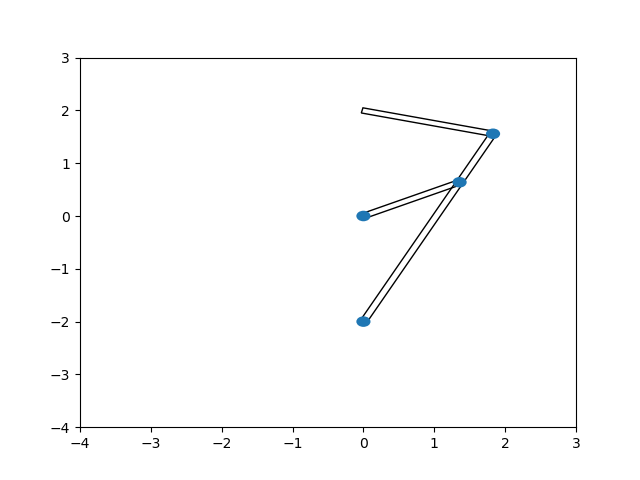
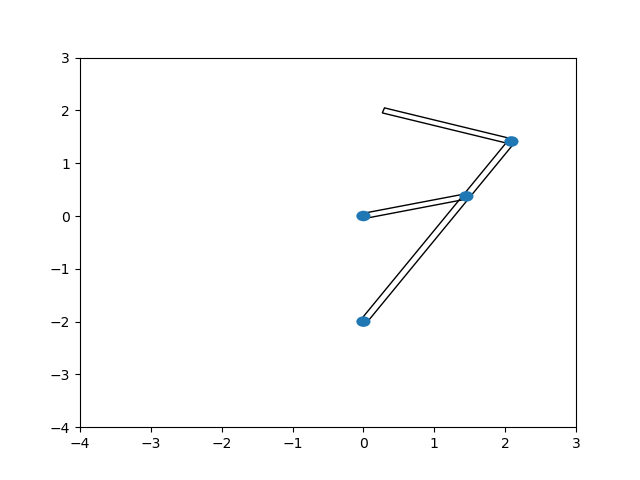
kinematic 0.3 Mon finish

Changed region(s): [[0.5625, 0.2188, 0.8125, 0.6562]]

diff --git a/kinematic/kinematics.py b/kinematic/kinematics.py
@@ -102,6 +102,7 @@ class kinematic_model:
             phij = q[j * 3 + 2]
         if kind == 'aphid':
             c = str(row['c']).replace("pi", "np.pi").replace('^', '**')
+            # print('kind 105:', c, phii - eval(c), phii, q)
             return phii - eval(c)
         elif kind == 'ax':
             c = float(c)
@@ -130,6 +131,7 @@ class kinematic_model:
         Phi = np.array([])
         for index, row in constraints.iterrows():
             i, j = row['i'], row['j']
+            # print('134:', self.cal_Phi_row(q, t, row))
             Phi = np.hstack([Phi, self.cal_Phi_row(q, t, row)])
         return np.matrix(Phi).T # 返回一个列向量
     def cal_fq_row(self, q, t, row):
@@ -222,7 +224,8 @@ class kinematic_model:
             dyj = dq[j * 3 + 1]
             drj = np.matrix([[dxj, dyj]]).T
         if kind == 'aphid':
-            c = str(row['c']).replace("pi", "np.pi").replace('^', '**')
+            c = str(row["c''"]).replace("pi", "np.pi").replace('^', '**')
+            # print(eval(c))
             return eval(c)
         elif kind == 'ax':
             return (As(phii, si) * dphii ** 2)[0, 0]
@@ -232,28 +235,48 @@ class kinematic_model:
             return np.array(As(phij, sj) * dphij ** 2 - As(phii, si) * dphii ** 2).flatten()
         elif kind == 't':
             print(rj)
-            t1 = dphii ** 2 * Bs(phii, vi).T * (rj - ri) + 2 * dphii * As(phii, vi).T * (drj - dri)
+            t1 = (dphii ** 2 * Bs(phii, vi).T * (rj - ri) + 2 * dphii * As(phii, vi).T * (drj - dri))[0, 0]
             return np.array([t1, 0])
         else:
             return 0
     def cal_gamma(self, q, dq, t):
-        gamma = np.empty([])
+        gamma = np.array([])
+        # print('origin', gamma)
         for index, row in self.constraints.iterrows():
+            # print('1', gamma)
             gamma = np.hstack([gamma, self.cal_gamma_row(q, dq, t, row)])
-        return np.matrix(gamma).T 
-    def directly_solve(self):
-        t0 = 0
-        te = 2
-        num = 50
-        ts = np.linspace(t0, te, num + 1)
+            # print(gamma)
+        return np.matrix(gamma).T # 返回列向量
+    def cal_v_row(self, q, t, row):
+        kind = row['kind']
+        if kind == 'aphid':
+            c = str(row["c'"]).replace("pi", "np.pi").replace('^', '**')
+            # print(eval(c))
+            return eval(c)
+        elif kind == 'r':
+            return [0, 0]
+        elif kind == 't':
+            return [0, 0]
+        else:
+            return 0
+    def cal_v(self, q, t):
+        v = np.array([])
+        for index, row in self.constraints.iterrows():
+            v = np.hstack([v, self.cal_v_row(q, t, row)])
+        return np.matrix(v).T
+    # Return [phi, phi, a]
+    def directly_solve(self, ts):
         dt = ts[1] - ts[0]
         q = [float(x) for x in self.initial_condition]
         n = len(q)
         constraints = self.constraints
         if n != self.n:
             print('n is wrong')
-        Z = np.zeros([num + 1, n])
+        Z = np.zeros([ts.shape[0], n * 3])
         for it, t in enumerate(ts):
+            print(it, q)
+            Phi = self.cal_Phi(q, t, constraints)
+            Phi_q = self.cal_fq(q, t, constraints)
             i = 1
             while npl.norm(self.cal_Phi(q, t, constraints)) > 1e-6:
                 Phi = self.cal_Phi(q, t, constraints)
@@ -262,20 +285,34 @@ class kinematic_model:
                     print('Improper initial value')
                     print(Phi_q) 
                     print(npl.det(Phi_q)) 
-                dq = - npl.inv(Phi_q) * Phi 
-                q = np.array(q).reshape(n, 1)
-                # print(q, dq)
-                # print(np.array(dq).flatten())
-                gamma = self.cal_gamma(q, np.array(dq).flatten(), t)
-                q += dq
-                q = q.flatten().tolist()
+                q = np.matrix(np.array(q).reshape([n, 1]))
+                q -= npl.inv(Phi_q) * Phi 
+                q = np.array(q).reshape(n, 1).flatten().tolist()
+                # print('291:', q)
                 i += 1 
-                # print('times: ', t, i, self.cal_Phi(q, t, constraints), Phi_q, dq, q)
                 if i == 100:
                     print('Improper initial value, i >= maxi')
                     print(t)
                     return Z
-            Z[it, :] = np.array(q)
+
+            dq = - npl.inv(Phi_q) * self.cal_v(q, t) 
+            q = np.array(q).reshape(n, 1)
+            # print(q, dq)
+            # print(np.array(dq).flatten())
+            gamma = self.cal_gamma(q, np.array(dq).flatten(), t)
+            # print(gamma)
+            ddq = npl.inv(Phi_q) * gamma
+            q = np.matrix(q)
+            # print('q: ', q)
+            # print('dq * dt: ', dq * dt)
+            # print('0.5 * dt ** 2 * ddq :', 0.5 * dt ** 2 * ddq )
+            q += dq * dt + 0.5 * dt ** 2 * ddq 
+            q = np.array(q).reshape(n, 1).flatten().tolist()
+            # print('q:', q)
+            dq = np.array(dq).flatten()
+            ddq = np.array(ddq).flatten()
+
+            Z[it, :] = np.hstack([np.array(q), dq, ddq])
         return Z
 
 n = 0

diff --git a/fluid mechanics/hw1.py b/fluid mechanics/hw1.py
@@ -1,0 +1,118 @@
+import numpy as np
+import numpy.linalg as npl
+import matplotlib.pyplot as plt
+
+gamma = 1.4 
+deltaX = 0.1
+start, end = 0, 3
+xs = np.linspace(start, end, (int)((end - start)//deltaX) + 2)
+print(xs)
+
+print(xs[0])
+print(xs[-1])
+print(xs[-2])
+print(xs[-2])
+
+rhos = [1 - 0.3146 * x for x in xs]
+Ts = [1 - 0.2314 * x for x in xs] # 温度
+Vs = [(0.1 + 1.09 * x) * np.sqrt(Ts[i]) for i, x in enumerate(xs)]
+print(rhos)
+
+print([1, 3, 41])
+# [1, 1, 1] + [0, 1, 2] = [1, 2, 3]
+print([1, 1, 1] + [0, 1, 2])
+n1 = np.array([1, 1, 1])
+n2 = np.array([0, 1, 2])
+print(np.array([1, 1, 1]) + np.array([0, 1, 2]))
+
+sz = len(xs)
+As = [1 + 2.2 * (x - 1.5) **2 for x in xs]
+print(As)
+
+ts = [0] # 时间
+rhos = [1 - 0.3146 * x for x in xs]
+Ts = [1 - 0.2314 * x for x in xs]
+Vs = [(0.1 + 1.09 * x) * np.sqrt(Ts[i]) for i, x in enumerate(xs)]
+rho_mid = [0.5]
+V_mid = [Vs[16]]
+T_mid = [Ts[16]]
+rho_t_mid = [0]
+rho_t_mid2 = [0]
+
+for it in range(1000):
+    rho_t = np.array([-rhos[i] * (Vs[i + 1] - Vs[i]) / deltaX - Vs[i] * (rhos[i + 1] - rhos[i]) / deltaX - rhos[i] * Vs[i] * (np.log(As[i + 1]) - np.log(As[i])) / deltaX for i in range(sz - 1)])
+    V_t = np.array([- Vs[i] * (Vs[i + 1] - Vs[i]) / deltaX - 1 / gamma * ((Ts[i + 1] - Ts[i]) / deltaX + Ts[i] / rhos[i] * (rhos[i + 1] - rhos[i]) / deltaX) for i in range(sz - 1)])
+    T_t = np.array([- Vs[i] * (Ts[i + 1] - Ts[i]) / deltaX - (gamma - 1) * Ts[i] * ((Vs[i + 1] - Vs[i]) / deltaX + Vs[i] * (np.log(As[i + 1]) - np.log(As[i])) / deltaX) for i in range(sz - 1)])
+    deltats = [deltaX / (Vs[i] + np.sqrt(Ts[i])) for i in range(sz - 1)]
+    deltat = 0.9 * np.min(deltats)
+    # print(deltats)
+    # print(Ts)
+    # print(Vs)
+    # print(rhos)
+    # print("-------------------------------")
+    ts += [ts[-1] + deltat] # ts = ts + [ts[-1] + deltat]
+    rho_t2 = np.append(rho_t, rho_t[-1])
+    V_t2 = np.append(V_t, V_t[-1])
+    T_t2 = np.append(T_t, T_t[-1])
+
+    rhoY = rhos 
+    VY = Vs 
+    TY = Ts 
+    rhos = rhos + rho_t2 * deltat 
+    Vs = Vs + V_t2 * deltat 
+    Ts = Ts + T_t2 * deltat 
+
+    rho_t = np.array([-rhos[i] * (Vs[i] - Vs[i - 1]) / deltaX - Vs[i] * (rhos[i] - rhos[i - 1]) / deltaX - rhos[i] * Vs[i] * (np.log(As[i]) - np.log(As[i - 1])) / deltaX for i in range(1, sz)])
+    V_t = np.array([- Vs[i] * (Vs[i] - Vs[i - 1]) / deltaX - 1 / gamma * ((Ts[i] - Ts[i - 1]) / deltaX + Ts[i] / rhos[i] * (rhos[i] - rhos[i - 1]) / deltaX) for i in range(1, sz)])
+    T_t = np.array([- Vs[i] * (Ts[i] - Ts[i - 1]) / deltaX - (gamma - 1) * Ts[i] * ((Vs[i] - Vs[i - 1]) / deltaX + Vs[i] * (np.log(As[i]) - np.log(As[i - 1])) / deltaX) for i in range(1, sz)])
+
+    rho_t = np.hstack([rho_t[0], rho_t])# [1, 2, 0.7, ...] -> [1, 1, 2, 0.7, ...]
+    V_t = np.hstack([V_t[0], V_t])
+    T_t = np.hstack([T_t[0], T_t])
+
+    # 计算时间偏导数的平均值，计算矫正值
+    rhos = rhoY + 0.5 * (rho_t + rho_t2) * deltat 
+    Vs = VY + 0.5 * (V_t + V_t2) * deltat 
+    Ts = TY + 0.5 * (T_t + T_t2) * deltat 
+
+    # 边界条件
+    rhos[0] = 1 
+    Ts[0] = 1
+    Vs[0] = 2 * Vs[1] - Vs[2] 
+    rhos[-1] = 2 * rhos[-2] - rhos[-3]
+    Ts[-1] = 2 * Ts[-2] - Ts[-3] 
+    Vs[-1] = 2 * Vs[-2] - Vs[-3]
+
+    # 记录喉道数据
+    rho_mid += [rhos[16]]
+    V_mid += [Vs[16]]
+    T_mid += [Ts[16]]
+    rho_t_mid += [rho_t[16]]
+    rho_t_mid2 += [rho_t2[16]]
+
+print(ts)
+print(rhos)
+
+ 
+
+plt.plot(ts, rho_mid)
+plt.plot(ts, V_mid)
+plt.plot(ts, T_mid)
+plt.legend(['rho', 'V', 'T'])
+
+plt.plot(ts, rho_t_mid)
+plt.plot(ts, rho_t_mid2)
+plt.plot(ts, np.array(rho_t_mid2) - np.array(rho_t_mid))
+
+plt.plot(ts[100:110], rho_t_mid[100:110])
+plt.plot(ts[100:110], rho_t_mid2[100:110])
+plt.plot(ts[100:110], (np.array(rho_t_mid2) - np.array(rho_t_mid))[100:110])
+
+plt.plot(xs, rhos)
+cs = [np.sqrt(T) for T in Ts]
+rhos_ = [(1 + 0.2 * (Vs[i] / cs[i]) ** 2) ** ( -1 / 0.4) for i in range(len(rhos))]
+plt.plot(xs, rhos_)
+
+plt.plot(xs, Vs)
+
+plt.plot(xs, Ts)

diff --git a/kinematic/test.py b/kinematic/test.py
@@ -1,19 +1,50 @@
 if __name__ == '__main__':
     import kinematics
     import math
+    import numpy as np 
+    import matplotlib.pyplot as plt 
 
+    t0 = 0
+    te = 2
+    num = 50
+    ts = np.linspace(t0, te, num + 1)
     k1 = kinematics.kinematic_model()
     k1.read_data_from_csv("kinematic/hw1_constraints.csv")
     k1.read_initial_from_csv("kinematic/hw1_IC.csv")
-    Z2 = k1.directly_solve()
-    print(Z2)
+    Z1 = k1.directly_solve(ts)
+    print(Z1)
+
+    plt.plot(ts, Z1[:, 0])
+    plt.savefig('x1.png')
+    plt.cla()
+    plt.plot(ts, Z1[:, 3])
+    plt.savefig('v1.png')
+    plt.cla()
+    plt.plot(ts, Z1[:, 6])
+    plt.savefig('a1.png')
+    plt.cla()
+
+    t0 = 0
+    te = 6
+    num = 120
+    ts = np.linspace(t0, te, num + 1)
 
     k2 = kinematics.kinematic_model()
     k2.read_data_from_csv("kinematic/hw2_constraints.csv")
     k2.read_initial_from_csv("kinematic/hw2_IC.csv")
-    Z2 = k2.directly_solve()
+    Z2 = k2.directly_solve(ts)
     print(Z2)
     
+    plt.plot(ts, Z2[:, 9])
+    plt.savefig('x5.png')
+    plt.cla()
+    plt.plot(ts, Z2[:, 9 + 12])
+    plt.savefig('v5.png')
+    plt.cla()
+    plt.plot(ts, Z2[:, 9 + 24])
+    plt.savefig('a5.png')
+    plt.cla()
+
     draw = kinematics.draw()
     # draw.add_rectangle([1, 1], 5, 5)
 
@@ -22,7 +53,7 @@ if __name__ == '__main__':
         exit()
     import imageio
     gif_images = []
-    sz = Z.shape[0]
+    sz = Z2.shape[0]
     # for i in range(sz):
     #     phii = Z[i, 2]
     #     draw.add_pole([0, 0], [1 * math.cos(phii), 1 * math.sin(phii)])
@@ -35,22 +66,22 @@ if __name__ == '__main__':
     #     draw.cla()
     for i in range(sz):
         print('image: ', i)
-        phi0 = Z[i, 2]
-        phi1 = Z[i, 5]
-        phi3 = Z[i, 11]
-        x3 = Z[i, 9]
-        draw.add_pole([0, 0], [Z[i, 6], Z[i, 7]])
-        draw.add_pole([0, -2], [0 + 4 * math.cos(phi1), -2 + 4 * math.sin(phi1)])
+        phi0 = Z2[i, 2]
+        phi1 = Z2[i, 5]
+        phi3 = Z2[i, 11]
+        x3 = Z2[i, 9]
+        draw.add_pole([0, 0], [Z2[i, 6], Z2[i, 7]])
+        draw.add_pole([0, -2], [x3 + 1.9 * math.cos(phi3), 2 + 1.9 * math.sin(phi3)])
         draw.add_pole([x3, 2], [x3 + 1.9 * math.cos(phi3), 2 + 1.9 * math.sin(phi3)])
         draw.add_hinge(0, 0)
         draw.add_hinge(0, -2) 
-        draw.add_hinge(Z[i, 6], Z[i, 7])
+        draw.add_hinge(Z2[i, 6], Z2[i, 7])
         draw.add_hinge(0 + 4 * math.cos(phi1), -2 + 4 * math.sin(phi1))
         draw.xlim([-4, 3])
         draw.ylim([-4, 3])
         draw.savefig('kinematic/test.png')
         gif_images.append(imageio.imread('kinematic/test.png'))
         draw.cla()
-    imageio.mimsave('kinematic/test2.gif', gif_images, fps= 15)
+    imageio.mimsave('kinematic/test2-.gif', gif_images, fps= 15)
         
 
